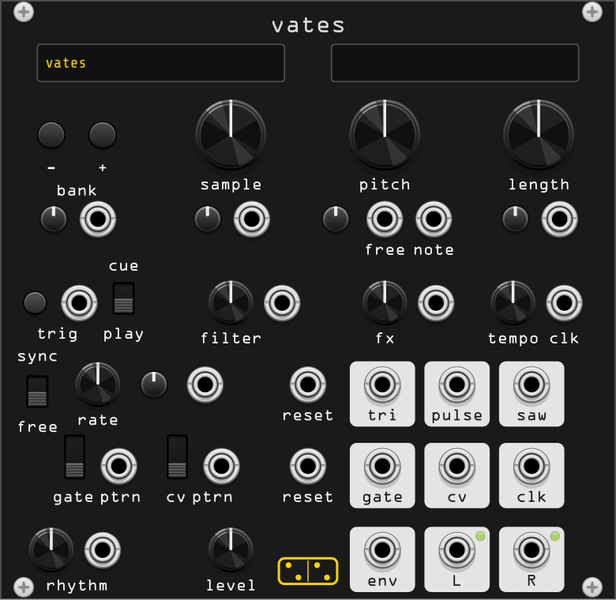
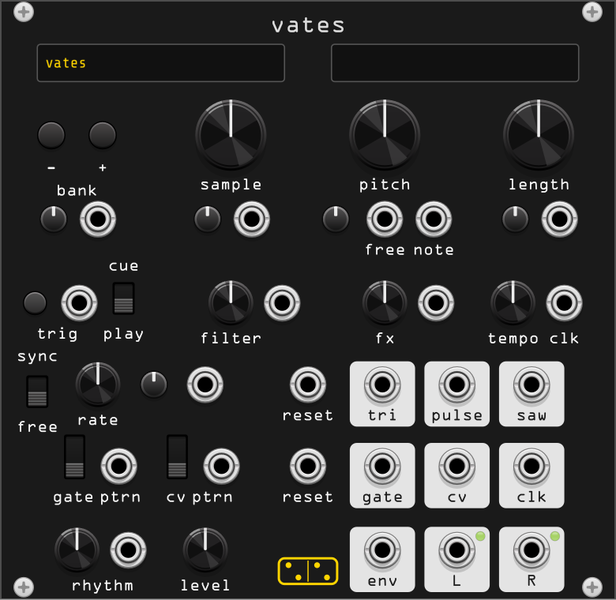
fix(vates): the click-to-position switch was still being incremented
Consuming the press in onButton starts a drag on this very widget, and
Switch::onDragStart then incremented the value on top of the one we had just
set — so every click landed one position high, which read as the old cycling
behaviour off by one. The press position is noted in onButton now and the
value is set in onDragStart, which is where Switch does its own increment and
where ours replaces it.

Bottom row: the left half is divided in three and the two groups sit on the
division points, which also pulls the rhythm knob clear of the corner screw.

Changed region(s): [[0.0617, 0.87, 0.2468, 0.99], [0.2776, 0.87, 0.4318, 0.99]]

diff --git a/src/vates.cpp b/src/vates.cpp
@@ -1285,7 +1285,7 @@ struct VatesWidget : ModuleWidget {
 // @elem LABEL_SAW label 0.0 label "saw" 0.0 114.00 90.00
 // @elem LABEL_TEMPO label 0.0 label "tempo" 0.0 110.00 73.50
 // @elem LABEL_CLK label 0.0 label "clk" 0.0 121.00 73.50
-// @elem LABEL_RHYTHM label 0.0 label "rhythm" 0.0 16.50 126.50
+// @elem LABEL_RHYTHM label 0.0 label "rhythm" 0.0 22.01 126.50
 // @elem LABEL_G label 0.0 label "gate ptrn" 0.0 20.75 107.50
 // @elem LABEL_C label 0.0 label "cv ptrn" 0.0 42.75 107.50
 // @elem LABEL_PAT_RESET label 0.0 label "reset" 0.0 66.04 107.50
@@ -1295,7 +1295,7 @@ struct VatesWidget : ModuleWidget {
 // @elem LABEL_CV label 0.0 label "cv" 0.0 98.00 107.50
 // @elem BOX_CLK_OUT panel_box 7.0 box "" 0.0 114.00 102.00
 // @elem LABEL_CLK_OUT label 0.0 label "clk" 0.0 114.00 107.50
-// @elem LABEL_LEVEL label 0.0 label "level" 0.0 49.50 126.50
+// @elem LABEL_LEVEL label 0.0 label "level" 0.0 44.03 126.50
 // @elem BOX_LEFT panel_box 7.0 box "" 0.0 98.00 120.00
 // @elem LABEL_LEFT label 0.0 label "L" 0.0 98.00 125.50
 // @elem BOX_RIGHT panel_box 7.0 box "" 0.0 114.00 120.00
@@ -1338,17 +1338,17 @@ struct VatesWidget : ModuleWidget {
         addOutput(createOutputCentered<PJ301MPort>(mm2px(Vec(114.00f, 82.50f)), module, Vates::SAW_OUTPUT));
         addParam(createParamCentered<RoundBlackKnob>(mm2px(Vec(110.00f, 65.00f)), module, Vates::TEMPO_PARAM));
         addInput(createInputCentered<PJ301MPort>(mm2px(Vec(121.00f, 65.00f)), module, Vates::CLK_INPUT));
-        addParam(createParamCentered<RoundBlackKnob>(mm2px(Vec(11.00f, 118.00f)), module, Vates::RHYTHM_PARAM));
+        addParam(createParamCentered<RoundBlackKnob>(mm2px(Vec(16.51f, 118.00f)), module, Vates::RHYTHM_PARAM));
         addParam(createParamCentered<CKSSThreePos>(mm2px(Vec(16.00f, 98.00f)), module, Vates::GSW_PARAM));
         addInput(createInputCentered<PJ301MPort>(mm2px(Vec(25.50f, 100.00f)), module, Vates::G_INPUT));
         addParam(createParamCentered<CKSSThreePos>(mm2px(Vec(38.00f, 98.00f)), module, Vates::CSW_PARAM));
         addInput(createInputCentered<PJ301MPort>(mm2px(Vec(47.50f, 100.00f)), module, Vates::C_INPUT));
         addInput(createInputCentered<PJ301MPort>(mm2px(Vec(66.04f, 100.00f)), module, Vates::PAT_RESET_INPUT));
-        addInput(createInputCentered<PJ301MPort>(mm2px(Vec(22.00f, 118.00f)), module, Vates::RHYTHM_INPUT));
+        addInput(createInputCentered<PJ301MPort>(mm2px(Vec(27.51f, 118.00f)), module, Vates::RHYTHM_INPUT));
         addOutput(createOutputCentered<PJ301MPort>(mm2px(Vec(82.00f, 100.00f)), module, Vates::GATE_OUTPUT));
         addOutput(createOutputCentered<PJ301MPort>(mm2px(Vec(98.00f, 100.00f)), module, Vates::CV_OUTPUT));
         addOutput(createOutputCentered<PJ301MPort>(mm2px(Vec(114.00f, 100.00f)), module, Vates::CLK_OUTPUT));
-        addParam(createParamCentered<RoundBlackKnob>(mm2px(Vec(49.50f, 118.00f)), module, Vates::LEVEL_PARAM));
+        addParam(createParamCentered<RoundBlackKnob>(mm2px(Vec(44.03f, 118.00f)), module, Vates::LEVEL_PARAM));
         addOutput(createOutputCentered<PJ301MPort>(mm2px(Vec(98.00f, 118.00f)), module, Vates::LEFT_OUTPUT));
         addOutput(createOutputCentered<PJ301MPort>(mm2px(Vec(114.00f, 118.00f)), module, Vates::RIGHT_OUTPUT));
         addChild(createLightCentered<SmallLight<GreenLight>>(mm2px(Vec(103.00f, 115.00f)), module, Vates::LEFT_LIGHT));

diff --git a/src/position_switch.hpp b/src/position_switch.hpp
@@ -17,16 +17,32 @@ namespace forsitan {
 
 template <typename TBase>
 struct PositionSwitch : TBase {
+	float pressY = 0.f;
+
+	// Note where the press landed and let the ordinary parameter handling
+	// run: consuming the press here instead would still start a drag on this
+	// widget, and Switch::onDragStart would then increment the value on top
+	// of whatever we had set — every click landing one position too high.
 	void onButton(const rack::event::Button& e) override {
-		if (e.action == GLFW_PRESS && e.button == GLFW_MOUSE_BUTTON_LEFT
-		    && (e.mods & RACK_MOD_MASK) == 0) {
-			setFromPos(e.pos.y);
-			e.consume(this);
+		if (e.action == GLFW_PRESS && e.button == GLFW_MOUSE_BUTTON_LEFT)
+			pressY = e.pos.y;
+		rack::app::ParamWidget::onButton(e);
+	}
+
+	// This is where Switch does its increment. Setting from the press
+	// position instead is the whole point of the widget.
+	void onDragStart(const rack::event::DragStart& e) override {
+		if (this->momentary) {
+			TBase::onDragStart(e);
 			return;
 		}
-		// everything else — right-click menu, ctrl-click, double-click — is
-		// the ordinary parameter behaviour
-		rack::app::ParamWidget::onButton(e);
+		if (e.button == GLFW_MOUSE_BUTTON_LEFT)
+			setFromPos(pressY);
+	}
+
+	void onDragEnd(const rack::event::DragEnd& e) override {
+		if (this->momentary)
+			TBase::onDragEnd(e);
 	}
 
 	void setFromPos(float y) {
